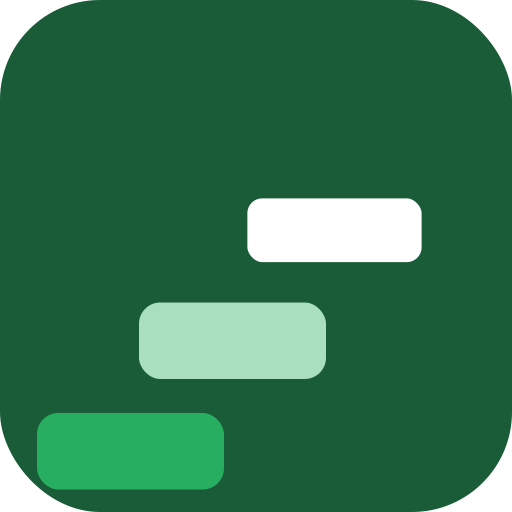
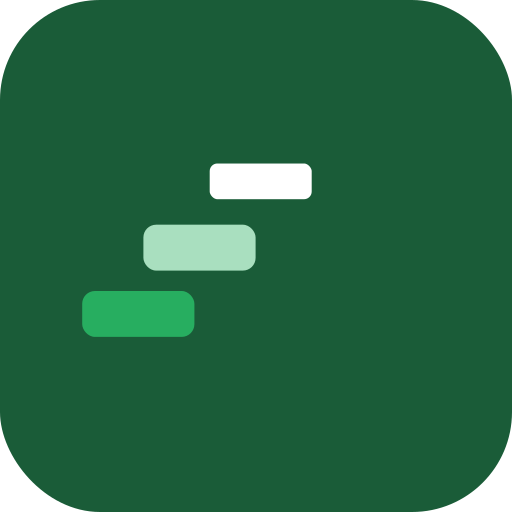
Add files via upload

Changed region(s): [[0.2812, 0.3125, 0.8438, 0.5312], [0.1562, 0.5625, 0.6562, 0.75], [0.0625, 0.7812, 0.4375, 0.9688]]

diff --git a/index.html b/index.html
@@ -20,12 +20,12 @@
 <title>WerkKracht Nederland — Landelijk Platform Werkontwikkelbedrijven</title>
[3 lines of base64/hex data omitted]
+<link rel="manifest" href="manifest.json">
 <meta name="theme-color" content="#1A5C38">
 <meta name="apple-mobile-web-app-capable" content="yes">
 <meta name="apple-mobile-web-app-status-bar-style" content="black-translucent">
 <meta name="apple-mobile-web-app-title" content="WerkKracht">
-<link rel="apple-touch-icon" sizes="180x180" href="appicon-180.png">
+<link rel="apple-touch-icon" sizes="180x180" href="icon180.png">
 <link rel="preconnect" href="https://fonts.googleapis.com">
 <link rel="preconnect" href="https://fonts.gstatic.com" crossorigin>
 <link rel="preload" as="style" href="https://fonts.googleapis.com/css2?family=Syne:wght@700;800&family=Fraunces:wght@700&family=Red+Hat+Display:wght@400;500;700;900&family=Red+Hat+Text:ital,wght@0,400;0,500;1,400&display=swap" onload="this.onload=null;this.rel='stylesheet'">
@@ -52,91 +52,6 @@
 @media (max-width: 768px) { nav > .lang-switch { display: none; } }
 .mobile-menu .lang-switch { margin: 2px 0 10px; align-self: flex-start; }
 .exit-banner{position:fixed;left:0;right:0;bottom:0;z-index:9100;background:var(--forest);border-top:3px solid var(--green);box-shadow:0 -8px 32px rgba(0,0,0,0.25);display:flex;align-items:center;justify-content:center;gap:1.5rem;flex-wrap:wrap;padding:1rem 5%;transform:translateY(110%);visibility:hidden;transition:transform .35s cubic-bezier(.4,0,.2,1),visibility .35s}.exit-banner.visible{transform:translateY(0);visibility:visible}.exit-banner-text{display:flex;flex-direction:column;gap:2px;min-width:0}.exit-banner-text strong{font-family:var(--f-head);font-size:0.95rem;font-weight:800;color:var(--white)}.exit-banner-text span{font-family:var(--f-body);font-size:0.78rem;color:rgba(255,255,255,0.92)}.exit-banner-btns{display:flex;gap:10px;flex-wrap:wrap}.exit-btn-primary{font-family:var(--f-display);font-size:0.85rem;font-weight:800;background:var(--white);color:var(--forest);border:none;border-radius:8px;padding:0.6rem 1.3rem;cursor:pointer;transition:var(--trans)}.exit-btn-primary:hover{background:var(--greenLt)}.exit-btn-dismiss{font-family:var(--f-head);font-size:0.82rem;font-weight:700;background:transparent;color:var(--white);border:1.5px solid rgba(255,255,255,0.55);border-radius:8px;padding:0.6rem 1.1rem;cursor:pointer;transition:var(--trans)}.exit-btn-dismiss:hover{border-color:var(--white);background:rgba(255,255,255,0.1)}@media(max-width:640px){.exit-banner{flex-direction:column;align-items:stretch;text-align:center;gap:0.8rem;padding:0.9rem 5%}.exit-banner-btns{justify-content:center}.exit-btn-primary,.exit-btn-dismiss{flex:1}}
-@media (max-width:768px){
-  .stats-bar{display:none}
-  .usp-section{display:none}
-  .mobile-doelgroep{display:block}
-}
-@media (min-width:769px){
-  .mobile-doelgroep{display:none}
-}
-.mobile-doelgroep{
-  background:var(--white);
-  border-radius:24px 24px 0 0;
-  margin-top:-24px;
-  position:relative;
-  z-index:2;
-  padding:1.75rem 1.25rem 2rem;
-}
-.mobile-doelgroep-label{
-  font-family:var(--f-head);
-  font-size:0.65rem;
-  font-weight:700;
-  letter-spacing:0.14em;
-  text-transform:uppercase;
-  color:var(--gray);
-  margin-bottom:1rem;
-}
-.mobile-doelgroep-kaart{
-  display:flex;
-  align-items:center;
-  justify-content:space-between;
-  background:var(--offwhite);
-  border:1px solid var(--sage);
-  border-radius:14px;
-  padding:1rem 1.1rem;
-  margin-bottom:0.75rem;
-  cursor:pointer;
-  text-decoration:none;
-  transition:var(--trans);
-}
-.mobile-doelgroep-kaart:hover,
-.mobile-doelgroep-kaart:active{
-  border-color:var(--green-ink);
-  background:var(--mint);
-}
-.mobile-doelgroep-kaart-tekst strong{
-  display:block;
-  font-family:var(--f-head);
-  font-size:0.9rem;
-  font-weight:700;
-  color:var(--forest);
-  margin-bottom:2px;
-}
-.mobile-doelgroep-kaart-tekst span{
-  font-family:var(--f-body);
-  font-size:0.78rem;
-  color:var(--gray);
-  line-height:1.4;
-}
-.mobile-doelgroep-pijl{
-  width:32px;
-  height:32px;
-  background:var(--green);
-  border-radius:50%;
-  display:flex;
-  align-items:center;
-  justify-content:center;
-  flex-shrink:0;
-  font-size:1rem;
-  color:var(--white);
-}
-.mobile-doelgroep-cta{
-  display:block;
-  background:var(--forest);
-  color:var(--white);
-  font-family:var(--f-head);
-  font-size:0.88rem;
-  font-weight:700;
-  text-align:center;
-  padding:0.9rem;
-  border-radius:12px;
-  text-decoration:none;
-  margin-top:0.25rem;
-  transition:var(--trans);
-}
-.mobile-doelgroep-cta:hover{background:var(--greenDk)}
-
 .keten-details { margin-top: 1.5rem; }
 .keten-toggle {
   display: inline-flex;
@@ -631,9 +546,7 @@ details[open] .keten-toggle { color: var(--forest); background: var(--mint); }
         <p>Elke stap in ons proces is met elkaar verbonden &mdash; van intake tot MKBA-rapportage. Transparant, meetbaar en herhaalbaar in elke regio.</p>
       </div>
 
-      <details class="keten-details">
-        <summary class="keten-toggle">Bekijk de stappen →</summary>
-        <div class="keten-track" id="ketenTrack">
+      <div class="keten-track" id="ketenTrack">
         <div class="keten-progress-line" id="ketenLine"></div>
 
         <!-- Stap 1: Intake -->
@@ -695,37 +608,10 @@ details[open] .keten-toggle { color: var(--forest); background: var(--mint); }
           <div class="keten-output">MKBA-audit</div>
         </div>
       </div>
-
-      <!-- Resultaat balk -->
-      <div class="keten-result" id="ketenResult">
-        <div class="keten-result-icon">
-          <svg viewBox="0 0 24 24" fill="none" style="width:20px;height:20px" stroke="white" stroke-width="2.5" stroke-linecap="round" stroke-linejoin="round"><polyline points="20 6 9 17 4 12"/></svg>
-        </div>
-        <div class="keten-result-text">
-          <strong>Het eindresultaat: meetbare maatschappelijke waarde</strong>
-          <span>Elke stap gedocumenteerd, elke euro verantwoord &mdash; voor gemeente, opdrachtgever en stakeholder.</span>
-        </div>
-        <div class="keten-result-stats">
-          <div class="keten-result-stat" style="cursor:pointer;" onclick="document.querySelector('.calc-section')?.scrollIntoView({behavior:'smooth'})" title="Bereken uw eigen rendement">
-            <span class="rv">5&ndash;7&times;</span>
-            <span class="rl">Maatsch. rendement</span>
-            <span style="font-family:var(--f-head);font-size:0.6rem;color:var(--greenLt);letter-spacing:0.06em;margin-top:2px;display:flex;align-items:center;gap:3px;">↗ bereken zelf</span>
-          </div>
-          <div class="keten-result-stat">
-            <span class="rv">&euro;29K</span>
-            <span class="rl">MKBA per werkplek</span>
-          </div>
-          <div class="keten-result-stat">
-            <span class="rv">100%</span>
-            <span class="rl">Transparant</span>
-          </div>
-        </div>
-      </div>
-
     </div>
   </section>
-        </details>
-<!-- MKBA CALCULATOR -->
+
+  <!-- MKBA CALCULATOR -->
   <div class="calc-section" id="calc">
     <div class="calc-inner">
       <div class="calc-label-block">
@@ -4877,5 +4763,13 @@ iUpdateProgress();
     <p style="font-family:var(--f-body);font-size:0.72rem;color:var(--gray);margin-top:1rem;line-height:1.5;">Bron: Berenschot/Cedris MKBA-methodiek, Divosa 2024. Berekeningen zijn indicatief op basis van sectorgemiddelden.</p>
   </div>
 </div>
+
+<script>
+if('serviceWorker' in navigator){
+  window.addEventListener('load', () => {
+    navigator.serviceWorker.register('/sw.js').catch(() => {});
+  });
+}
+</script>
 </body>
 </html>